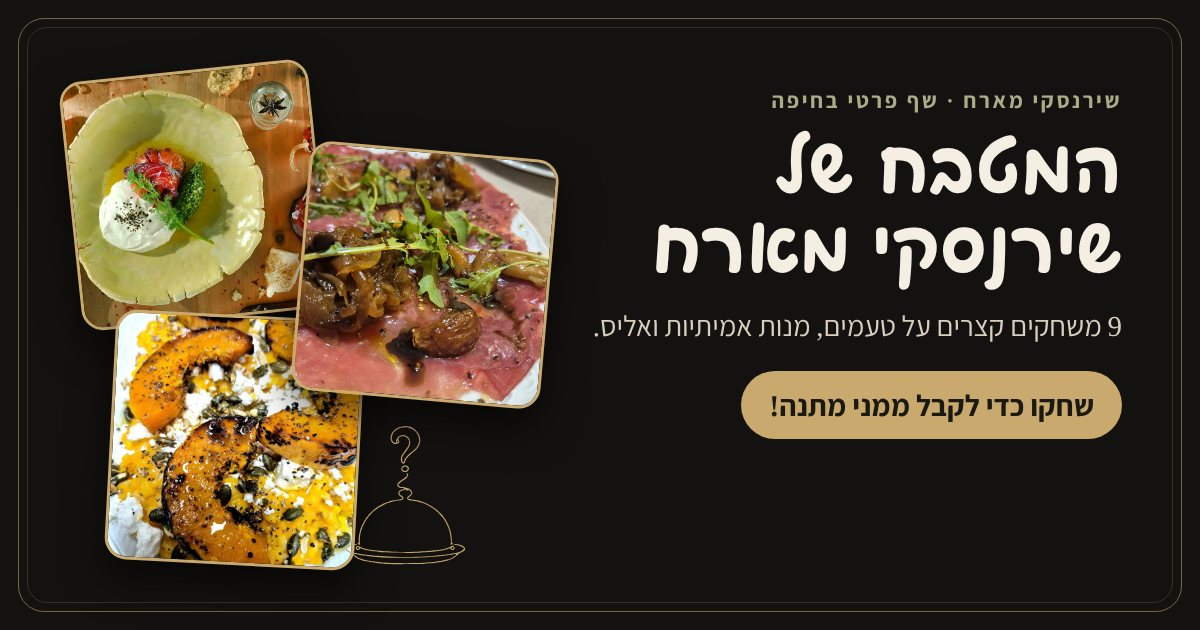
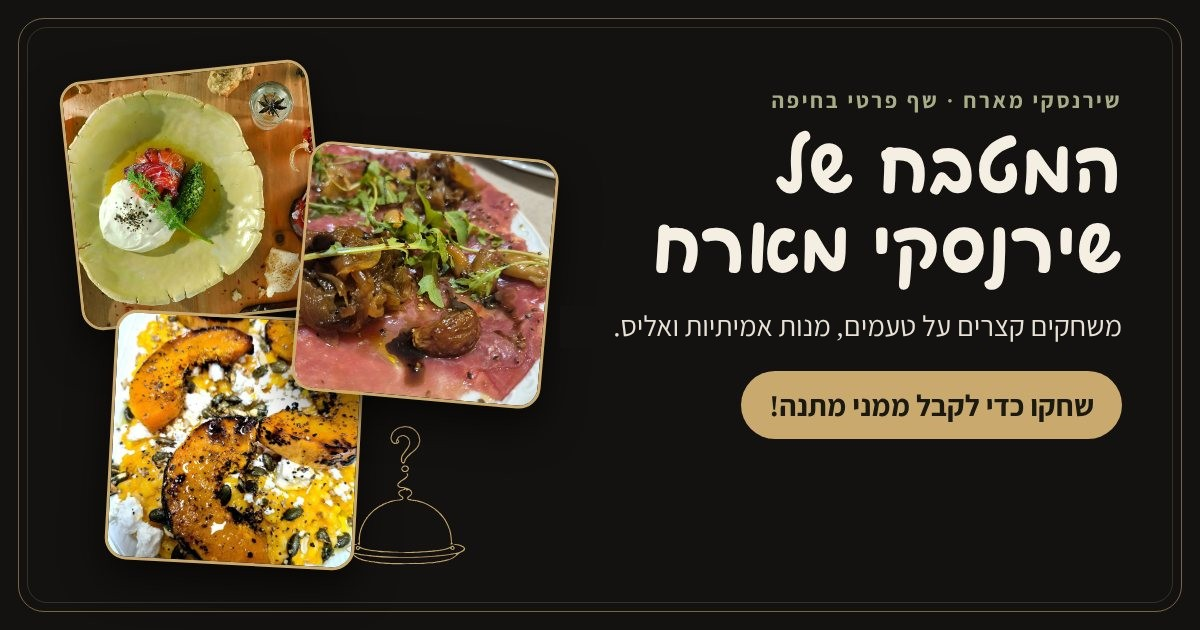
Link preview: drop the game count ("משחקים קצרים")
Claude-Session: https://claude.ai/code/session_016u63kQkpKoPzz8vGpvBhAp

Changed region(s): [[0.4933, 0.4825, 0.925, 0.5429]]

diff --git a/index.html b/index.html
@@ -5,7 +5,7 @@
 <meta name="viewport" content="width=device-width,initial-scale=1,viewport-fit=cover">
 <meta name="theme-color" content="#141210">
 <meta property="og:title" content="המטבח של שירנסקי מארח">
-<meta property="og:description" content="7 משחקים קצרים על טעמים, מנות אמיתיות ואליס. שחקו כדי לקבל ממני מתנה!">
+<meta property="og:description" content="משחקים קצרים על טעמים, מנות אמיתיות ואליס. שחקו כדי לקבל ממני מתנה!">
 <meta property="og:type" content="website">
 <meta property="og:url" content="https://shiranskihosting.github.io/shiranski-game/">
 <meta property="og:image" content="https://shiranskihosting.github.io/shiranski-game/img/og.jpg">
@@ -14,7 +14,7 @@
 <meta property="og:image:alt" content="המטבח של שירנסקי מארח: משחקים על מנות אמיתיות">
 <meta property="og:locale" content="he_IL">
 <meta name="twitter:card" content="summary_large_image">
-<meta name="description" content="7 משחקים קצרים על טעמים, מנות אמיתיות ואליס. שחקו כדי לקבל ממני מתנה!">
+<meta name="description" content="משחקים קצרים על טעמים, מנות אמיתיות ואליס. שחקו כדי לקבל ממני מתנה!">
 <title>המטבח של שירנסקי מארח</title>
 <link rel="stylesheet" href="https://fonts.googleapis.com/css2?family=Assistant:wght@400;600;700&family=Playpen+Sans+Hebrew:wght@500;700&display=swap">
 <link rel="stylesheet" href="css/style.css">
